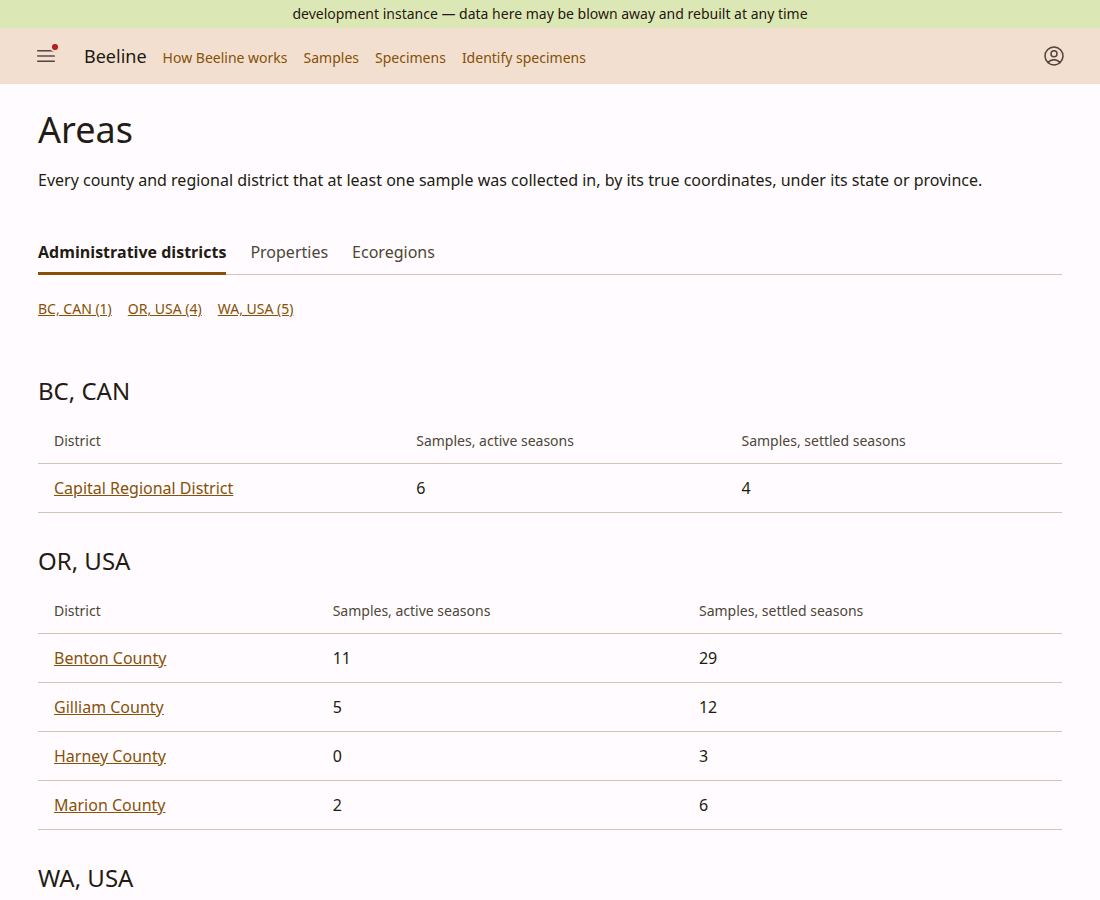
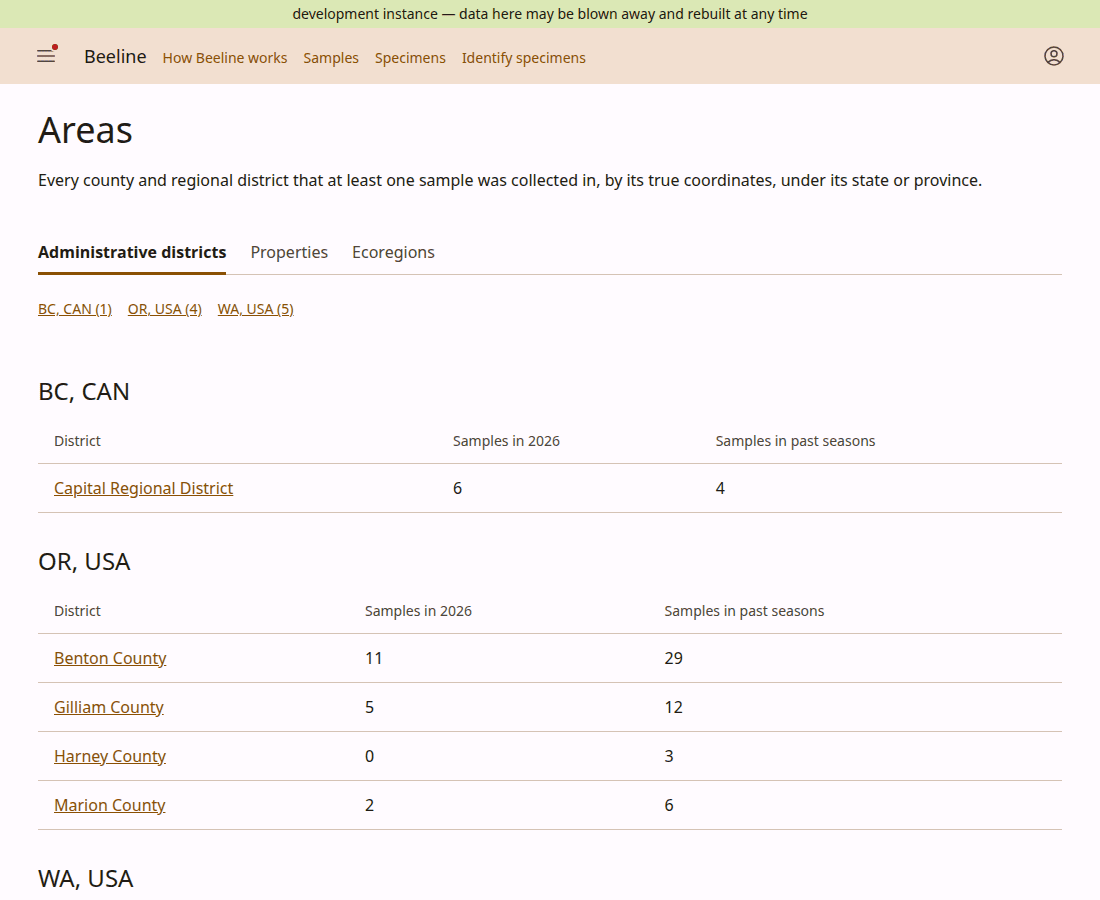
Count an area's samples in this season and in past seasons; measure agency overlap once
The Areas pages' two counts are now "Samples in 2026" and "Samples in past
seasons" (Peter, 2026-11-17): the current season, by the calendar year of a
sample's first day, against every earlier one, as the Programs page counts.
Not the active and settled split, under which last season is still active
in January and February.

Where two agencies' land overlaps inside an OpenStreetMap park, the share
of the park inside agency land counted the overlap twice, so a park 45%
inside both read as 90% inside and was left out (CodeRabbit). The parts are
now joined before they are measured. In the gazetteer of 2026-11-17 that
changes three outlines, all refuges of offshore rocks.

diff --git a/src/app/areas.ts b/src/app/areas.ts
@@ -32,8 +32,13 @@ import { areaKey } from "./listings.js";
  * for them a count and the listing it links to agree. Showing these pages to
  * anyone else needs the counts taken through that rule first.
  *
- * Counts are split by season, the active seasons against the settled ones
- * (settled_sample, schema/102), as every check count is.
+ * Counts are split by season: the current season against every earlier one
+ * (Peter, 2026-11-17: "Samples in 2026" and "Samples in past seasons"). A
+ * season is sample_season's, the calendar year of a sample's first day, and
+ * the current one is today's year in Oregon (season, schema/102), as on the
+ * Programs page. This is not the active and settled split the check counts
+ * use: in January and February last season is still active, and here it is
+ * already past.
  */
 
 export const AREA_TABS = ["districts", "properties", "ecoregions"] as const;
@@ -60,10 +65,10 @@ export interface AreaSummary {
    * samples is in a county.
    */
   where: string | null;
-  /** Samples inside it from the active seasons. */
-  active: number;
-  /** Samples inside it from settled seasons. */
-  settled: number;
+  /** Samples inside it from the current season. */
+  current: number;
+  /** Samples inside it from every earlier season. */
+  past: number;
 }
 
 /**
@@ -95,8 +100,14 @@ interface AreaRow {
   country: string | null;
   counties: string[];
   states: string[];
-  active: number;
-  settled: number;
+  current: number;
+  past: number;
+}
+
+export interface AreaListing {
+  /** The current season, which the first count is of. */
+  season: number;
+  groups: AreaGroup[];
 }
 
 /**
@@ -104,7 +115,9 @@ interface AreaRow {
  * properties by kind, the ecoregions as one. The view orders the sections;
  * each section's areas are by name.
  */
-export async function listAreas(db: Kysely<Database>, tab: AreaTab): Promise<AreaGroup[]> {
+export async function listAreas(db: Kysely<Database>, tab: AreaTab): Promise<AreaListing> {
+  const { rows: seasons } = await sql<{ year: number }>`SELECT current_season AS year FROM season`.execute(db);
+  const season = Number(seasons[0]!.year);
   // A district's state is what its samples' points say (sample_area_derivation,
   // beeline-rax1), not a fact stored about the district: nothing records that
   // a county lies inside a state (Peter, 2026-10-26). Every sample in a
@@ -118,12 +131,12 @@ export async function listAreas(db: Kysely<Database>, tab: AreaTab): Promise<Are
            list_sort(list(DISTINCT concat(cty.name, ', ', d.state_province))
                      FILTER (WHERE cty.name IS NOT NULL AND d.state_province IS NOT NULL)) AS counties,
            list_sort(list(DISTINCT d.state_province) FILTER (WHERE d.state_province IS NOT NULL)) AS states,
-           count(DISTINCT sac.sample_id) FILTER (WHERE ss.sample_id IS NULL)::INTEGER AS active,
-           count(DISTINCT ss.sample_id)::INTEGER AS settled
+           count(DISTINCT sac.sample_id) FILTER (WHERE ss.season = ${season})::INTEGER AS current,
+           count(DISTINCT sac.sample_id) FILTER (WHERE ss.season IS DISTINCT FROM ${season})::INTEGER AS past
     FROM sample_area_current sac
     JOIN sample_area_derivation d ON d.sample_id = sac.sample_id
     LEFT JOIN sample_area_current cty ON cty.sample_id = sac.sample_id AND cty.kind = 'county'
-    LEFT JOIN settled_sample ss ON ss.sample_id = sac.sample_id
+    JOIN sample_season ss ON ss.sample_id = sac.sample_id
     WHERE sac.kind IN (${sql.join(TAB_KINDS[tab])})
     GROUP BY sac.kind, sac.source, sac.source_id, sac.name`.execute(db);
   const collator = new Intl.Collator("en", { sensitivity: "base", numeric: true });
@@ -138,8 +151,8 @@ export async function listAreas(db: Kysely<Database>, tab: AreaTab): Promise<Are
       key: areaKey(r.source, r.source_id),
       name: areaDisplayName(r.name),
       where: tab !== "properties" ? null : whereOf(r),
-      active: Number(r.active),
-      settled: Number(r.settled),
+      current: Number(r.current),
+      past: Number(r.past),
     });
   }
   for (const group of groups.values()) {
@@ -147,5 +160,5 @@ export async function listAreas(db: Kysely<Database>, tab: AreaTab): Promise<Are
     // Park): the key settles their order, so a reload does not swap them.
     group.areas.sort((a, b) => collator.compare(a.name, b.name) || a.key.localeCompare(b.key));
   }
-  return [...groups.values()];
+  return { season, groups: [...groups.values()] };
 }

diff --git a/src/app/views/areas.tsx b/src/app/views/areas.tsx
@@ -1,13 +1,13 @@
 import type { Messages } from "../messages/index.js";
-import { AREA_TABS, type AreaGroup, type AreaGrouping, type AreaTab } from "../areas.js";
+import { AREA_TABS, type AreaGroup, type AreaGrouping, type AreaListing, type AreaTab } from "../areas.js";
 import { ALL, EMPTY_QUERY, listingHref } from "../listings.js";
 import { Absent, DataTable, EmptyState, PageHeader, Tabs } from "./components/index.js";
 
 /**
  * The areas (beeline-9jd4), as three pages a row of tabs moves between:
  * administrative districts, properties and ecoregions (Peter, 2026-11-17).
- * Each area is a row with the samples inside it from the active seasons and
- * from settled ones. Staff only (src/app/areas.ts says why), so an area's
+ * Each area is a row with the samples inside it from the current season and
+ * from every earlier one. Staff only (src/app/areas.ts says why), so an area's
  * name links to the Samples listing filtered to exactly that area, across
  * every program.
  */
@@ -24,7 +24,8 @@ function heading(m: Messages, grouping: AreaGrouping): string {
 const anchor = (grouping: AreaGrouping) =>
   grouping.by === "kind" ? grouping.kind : `${grouping.country ?? "none"}-${grouping.state ?? "none"}`;
 
-export function AreaIndex({ m, tab, groups: unordered }: { m: Messages; tab: AreaTab; groups: AreaGroup[] }) {
+export function AreaIndex({ m, tab, listing }: { m: Messages; tab: AreaTab; listing: AreaListing }) {
+  const { season, groups: unordered } = listing;
   const a = m.areas;
   // Sections in alphabetical order of their headings (Peter, 2026-11-17),
   // the districts no state could be read for last.
@@ -58,7 +59,7 @@ export function AreaIndex({ m, tab, groups: unordered }: { m: Messages; tab: Are
                 <p>{a.kindNote[group.grouping.kind]}</p>
               )}
               <DataTable
-                columns={tab === "properties" ? [a.colArea[tab], a.colWhere, a.colActive, a.colSettled] : [a.colArea[tab], a.colActive, a.colSettled]}
+                columns={tab === "properties" ? [a.colArea[tab], a.colWhere, a.colCurrent(season), a.colPast] : [a.colArea[tab], a.colCurrent(season), a.colPast]}
               >
                 {group.areas.map((area) => (
                   <tr>
@@ -68,8 +69,8 @@ export function AreaIndex({ m, tab, groups: unordered }: { m: Messages; tab: Are
                     {tab === "properties" && (
                       <td>{area.where === null ? <Absent label={m.absence.notRecorded} /> : area.where}</td>
                     )}
-                    <td>{m.format.number(area.active)}</td>
-                    <td>{m.format.number(area.settled)}</td>
+                    <td>{m.format.number(area.current)}</td>
+                    <td>{m.format.number(area.past)}</td>
                   </tr>
                 ))}
               </DataTable>

diff --git a/test/sample-area-app.test.ts b/test/sample-area-app.test.ts
@@ -8,7 +8,7 @@ import type { InatClient } from "../src/app/auth.js";
 import { createApp } from "../src/app/server.js";
 import { en } from "../src/app/messages/en.js";
 import { deriveAreas } from "../src/derive-area.js";
-import { SETTLED_SEASON, buildTestGazetteer, createMemoryDb, insertCleanSample, scratchPaths } from "./helpers.js";
+import { CURRENT_SEASON, SETTLED_SEASON, buildTestGazetteer, createMemoryDb, insertCleanSample, scratchPaths } from "./helpers.js";
 import { areaDisplayName } from "../src/area-name.js";
 import { listAreas } from "../src/app/areas.js";
 
@@ -185,19 +185,20 @@ describe("the Areas page (beeline-9jd4)", () => {
   it("lists the areas a sample lies inside as districts, properties and ecoregions, with their samples split by season", async () => {
     const { db } = await withSettledRefugeSample();
     // A district is under the state its samples' points say it is in.
-    expect(await listAreas(db, "districts")).toEqual([
+    expect((await listAreas(db, "districts")).season).toBe(CURRENT_SEASON);
+    expect((await listAreas(db, "districts")).groups).toEqual([
       {
         grouping: { by: "state", state: "OR", country: "USA" },
-        areas: [{ key: "census:41003", name: "Benton County", where: null, active: 2, settled: 1 }],
+        areas: [{ key: "census:41003", name: "Benton County", where: null, current: 2, past: 1 }],
       },
     ]);
-    expect(await listAreas(db, "properties")).toEqual([
+    expect((await listAreas(db, "properties")).groups).toEqual([
       {
         grouping: { by: "kind", kind: "refuge" },
-        areas: [{ key: REFUGE_KEY, name: "William L. Finley National Wildlife Refuge", where: "Benton County, OR", active: 1, settled: 1 }],
+        areas: [{ key: REFUGE_KEY, name: "William L. Finley National Wildlife Refuge", where: "Benton County, OR", current: 1, past: 1 }],
       },
     ]);
-    const ecoregions = await listAreas(db, "ecoregions");
+    const { groups: ecoregions } = await listAreas(db, "ecoregions");
     expect(ecoregions.map((g) => g.grouping)).toEqual([{ by: "kind", kind: "ecoregion" }]);
     expect(ecoregions[0]!.areas.map((a) => a.name)).toEqual(["Coast Range", "Willamette Valley"]);
   });
@@ -218,6 +219,8 @@ describe("the Areas page (beeline-9jd4)", () => {
     const bob = appFor("bob");
     const districts = await (await bob.request("/areas/districts")).text();
     expect(districts).toContain(">OR, USA</h2>");
+    expect(districts).toContain(en.areas.colCurrent(CURRENT_SEASON));
+    expect(districts).toContain(en.areas.colPast);
     expect(districts).toContain(`href="/samples?scope=all&amp;area=census%3A41003"`);
     for (const tab of [en.areas.tab.districts, en.areas.tab.properties, en.areas.tab.ecoregions]) {
       expect(districts).toContain(tab);

diff --git a/src/app/messages/en.ts b/src/app/messages/en.ts
@@ -1926,8 +1926,9 @@ export const en = {
     } satisfies Record<AreaTab, string>,
     /** Where a property is: its county and state, or its states where it spans counties. */
     colWhere: "Where",
-    colActive: "Samples, active seasons",
-    colSettled: "Samples, settled seasons",
+    /** The current season's samples, and every earlier season's (Peter, 2026-11-17). */
+    colCurrent: (season: number) => `Samples in ${season}`,
+    colPast: "Samples in past seasons",
     /** The pill of the listings' area filter. */
     filter: "Area",
     /** In place of a name: the store holds no such area, or nothing in it that this reader may see. */

diff --git a/src/app/server.tsx b/src/app/server.tsx
@@ -1789,7 +1789,7 @@ export function createApp({
     const m = c.get("m");
     const tab = c.req.param("tab");
     if (!isAreaTab(tab)) return errorResponse(c, "notFound");
-    return c.html(await page(c, m.areas.title, <AreaIndex m={m} tab={tab} groups={await listAreas(db, tab)} />));
+    return c.html(await page(c, m.areas.title, <AreaIndex m={m} tab={tab} listing={await listAreas(db, tab)} />));
   });
 
   app.get("/programs/:code", async (c) => {

diff --git a/docs/architecture/areas.md b/docs/architecture/areas.md
@@ -88,7 +88,7 @@ A sample in two parks counts in both rows' areas, so the park rows count sample 
 
 ## The Areas page
 
-`/areas` (`src/app/areas.ts`, `src/app/views/areas.tsx`) is three pages that a row of tabs moves between (Peter, 2026-11-17), each listing the areas a sample lies inside with the samples inside each from the active seasons and from settled ones:
+`/areas` (`src/app/areas.ts`, `src/app/views/areas.tsx`) is three pages that a row of tabs moves between (Peter, 2026-11-17), each listing the areas a sample lies inside with the samples inside each from the current season ("Samples in 2026") and from every earlier one ("Samples in past seasons"; Peter, 2026-11-17). That is the calendar year, as on the Programs page, and not the active and settled split the check counts use: in January and February last season is still active, and on these pages it is already past. The three:
 
 - **Administrative districts** (`/areas/districts`): counties and BC's regional districts, each under its state or province, because a county's name is not unique (Oregon and Washington each have a Benton County) and there are many of them. The state is what the district's samples' points say (`sample_area_derivation`), not a fact stored about the district, which keeps to the ruling that nothing records one area inside another. States and provinces are not areas themselves yet: the gazetteer has no outlines for them.
 - **Properties** (`/areas/properties`): refuges, WDFW wildlife area units, National Park Service units, state and provincial parks, city and county parks, and the other parks and reserves OpenStreetMap outlines, a section per kind. Each says where it is, because a park's name is not unique either: Seattle and Bend each have a Discovery Park. Where is the county its samples' points are in ("King County, WA"), or the states where they are in several counties ("OR, WA"), read from the samples and not stored about the park.
